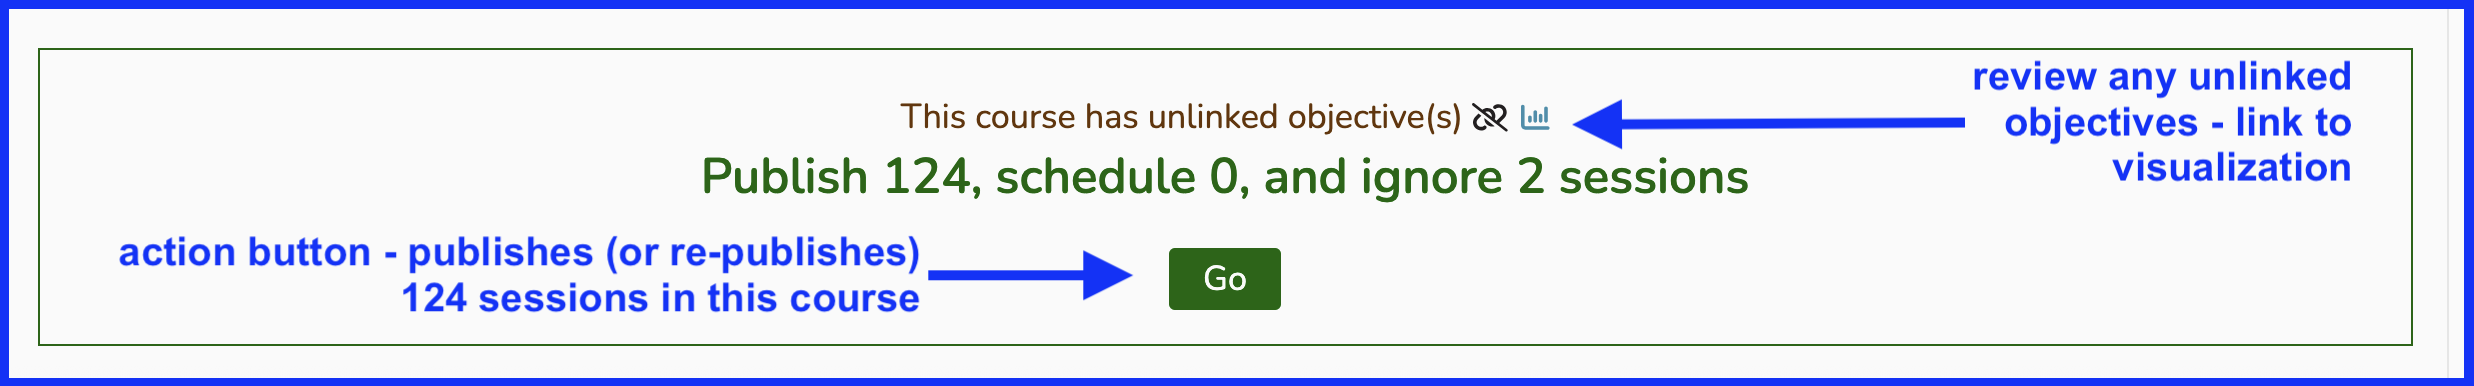
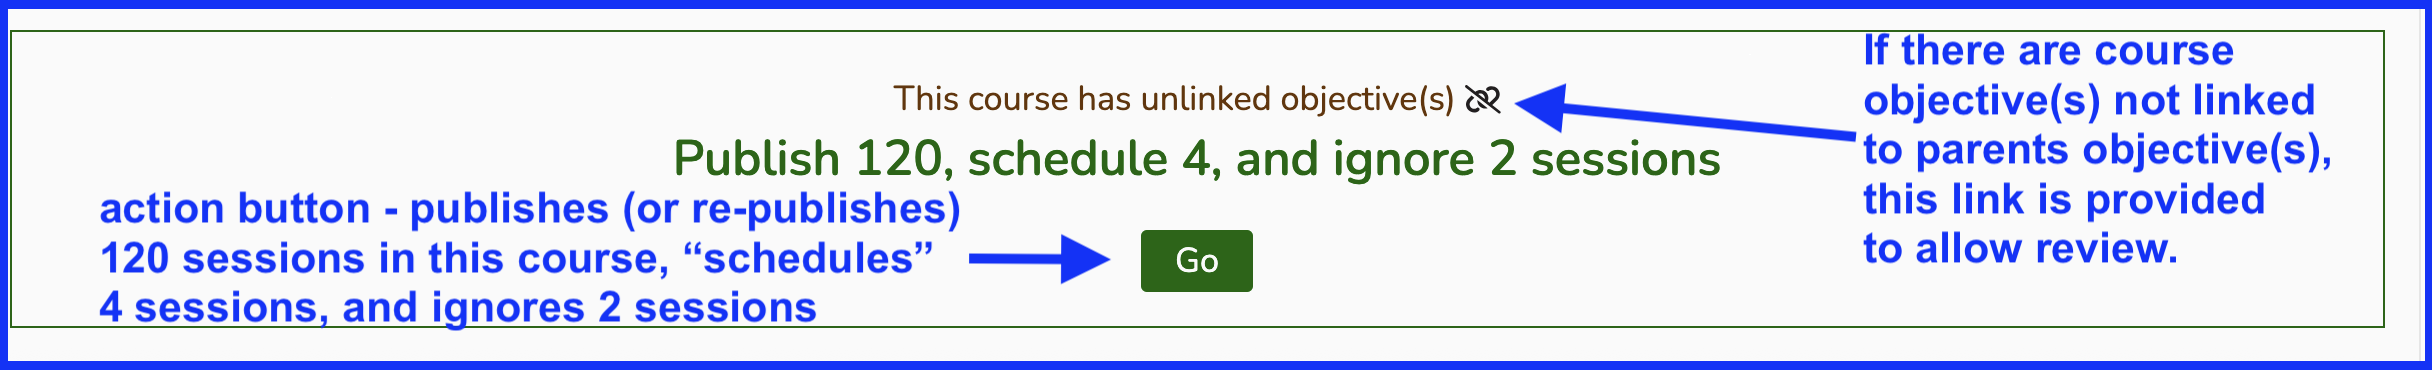
text added - new image added too - go button

diff --git a/courses-and-sessions/publishing.md b/courses-and-sessions/publishing.md
@@ -130,3 +130,5 @@ This is shown below.
 ### Take Action - "Go"
 
 ![take all actions - go button](../images/publishing/take_all_actions_go_button.png)
+
+As shown above, a link is provided to route the user back to the course objectives listing when there are one or more course objectives which are not linked to parent (program year) objectives. There is no required action here. It's there to allow for review.
